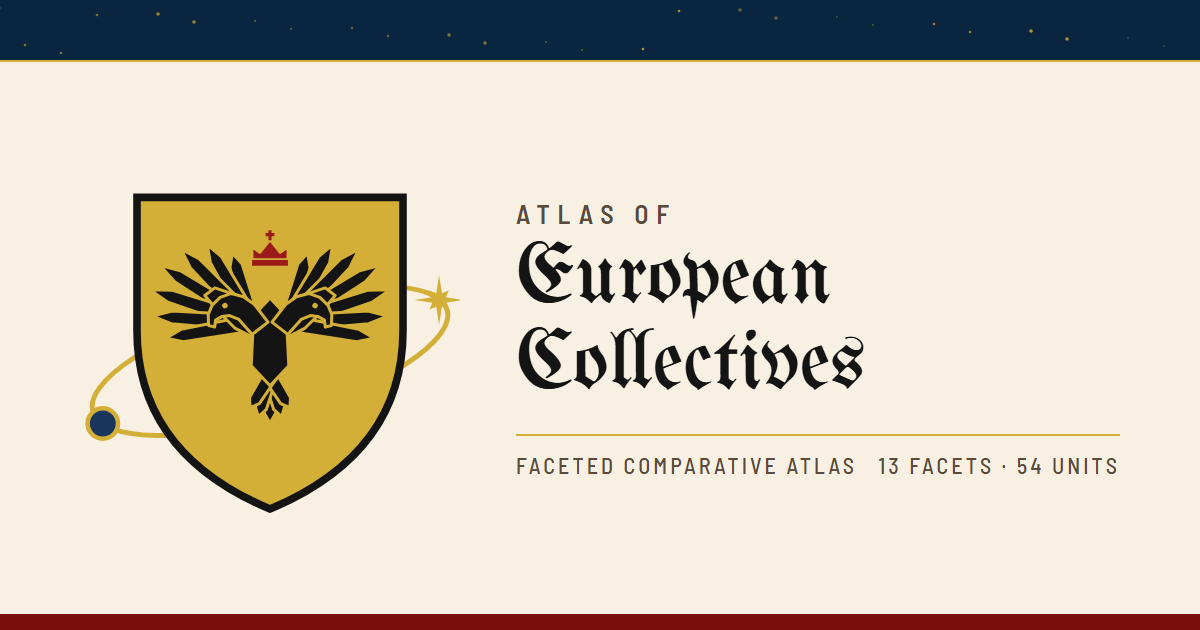
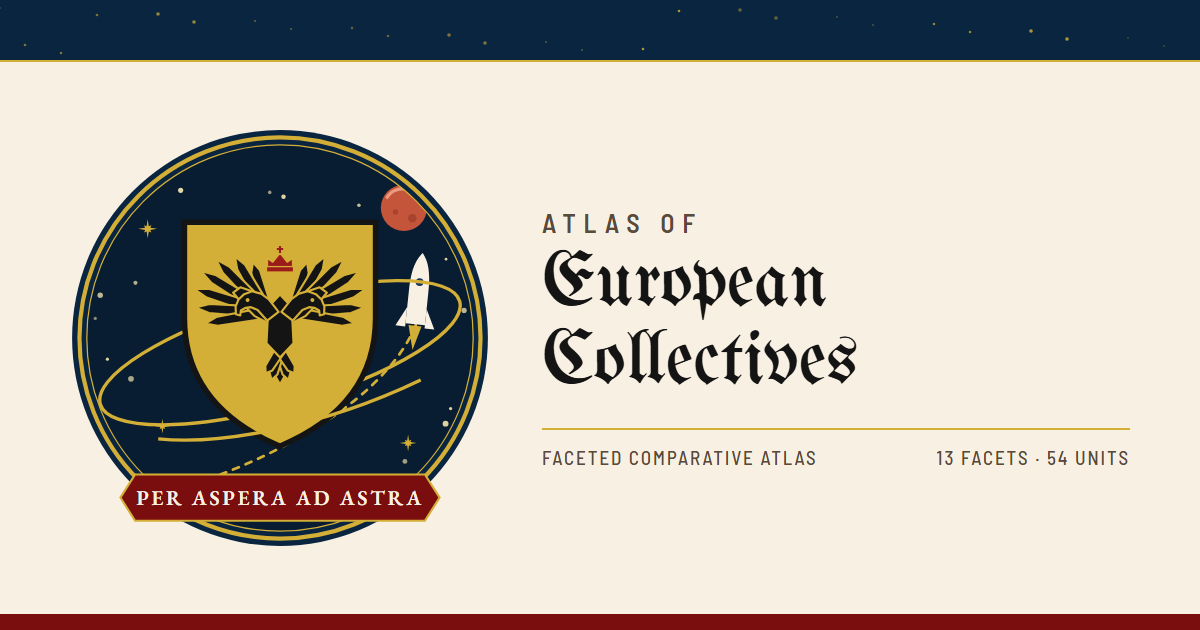
v1.7.8 - Full crest, enlarged for every screen
The shield mark becomes the full crest: the imperial eagle on its gold
shield in a night sky, with an orbit, a rocket rising toward a red planet,
and the motto Per aspera ad astra. 236 px beside the title on desktop; on
phones it stacks above the title at up to 300 px. Footer lockup and the
link-preview image use the same crest.

Changed region(s): [[0.0617, 0.181, 0.74, 0.8746], [0.4317, 0.6635, 0.9558, 0.754], [0.4317, 0.3317, 0.7092, 0.5127]]

diff --git a/index.html b/index.html
@@ -76,8 +76,9 @@ p{margin:0 0 1em}
 h1{font-family:var(--title);font-weight:600;font-size:clamp(31px,7vw,50px);line-height:1.08;margin:0 0 12px;letter-spacing:.003em}
 .brand{display:flex;align-items:center;gap:20px;margin:0 0 18px}
 .brand h1{margin:0 0 2px}.brand .subtitle{margin:0}
-.brand .mk{width:150px;height:150px;flex:none}
-@media(max-width:520px){.brand{gap:14px}.brand .mk{width:64px;height:64px}}
+.brand .mk{width:236px;height:236px;flex:none}
+@media(max-width:820px){.brand .mk{width:190px;height:190px}}
+@media(max-width:620px){.brand{flex-direction:column;align-items:center;text-align:center;gap:16px}.brand .mk{width:min(300px,80vw);height:auto}}
 .dk{display:none}
 @media (prefers-color-scheme:dark){:root:not([data-theme="light"]) .lt{display:none}:root:not([data-theme="light"]) .dk{display:block}}
 :root[data-theme="dark"] .lt{display:none}:root[data-theme="dark"] .dk{display:block}
@@ -223,7 +224,8 @@ a.inl:focus-visible{border-radius:1px}
 :root[data-theme="dark"] body{background-image:var(--sky);background-size:160px 160px;background-attachment:fixed}
 .crest{display:block}
 .colophon .lockup{display:flex;align-items:center;gap:clamp(16px,4vw,34px);max-width:640px}
-.colophon .lockup .crest{width:clamp(104px,24vw,164px);height:auto;flex:none}
+.colophon .lockup .crest{width:clamp(150px,30vw,210px);height:auto;flex:none}
+@media(max-width:560px){.colophon .lockup{flex-direction:column;align-items:center;text-align:center}.colophon .lk3{justify-content:center}}
 .colophon .lk1{font-family:'Barlow Semi Condensed','Arial Narrow',Arial,sans-serif;font-weight:600;font-size:clamp(12px,2.4vw,15px);letter-spacing:.3em;text-transform:uppercase;color:var(--soft)}
 .colophon .lk2{font-family:var(--black);font-weight:400;font-size:clamp(28px,6vw,44px);line-height:1.05;margin:4px 0 0}
 .colophon .lk3{display:flex;flex-wrap:wrap;justify-content:space-between;gap:4px 18px;margin-top:12px;padding-top:9px;border-top:1.5px solid var(--gold);font-family:'Barlow Semi Condensed','Arial Narrow',Arial,sans-serif;font-weight:500;font-size:clamp(11px,2.2vw,14px);letter-spacing:.14em;text-transform:uppercase;color:var(--soft)}
@@ -485,7 +487,7 @@ table.matrix th{white-space:normal;vertical-align:bottom;line-height:1.15}
 <div class="wrap">
 
 <div class="masthead"><span>Faceted comparative atlas</span><span>13 facets, 54 units</span></div>
-<div class="brand"><svg class="crest mk" viewBox="0 0 200 200" role="img" aria-label="Atlas of European Collectives compass mark"><ellipse cx="100" cy="112" rx="97" ry="30" transform="rotate(-16 100 112)" fill="none" stroke="#D4AF37" stroke-width="2.6"></ellipse><path d="M30 26H170V96C170 146 138 174 100 190C62 174 30 146 30 96Z" fill="#D4AF37" stroke="#141414" stroke-width="4"></path><g transform="translate(100 104) scale(0.66) translate(-100 -100)"><polygon points="94.5,124 95.38,153.64 100,162 104.62,153.64 105.5,124" fill="#141414" stroke="#D4AF37" stroke-width="2.4" stroke-linejoin="round"></polygon><polygon points="94.71,125.52 102.87,150.77 109.37,156.68 111.75,148.22 105.29,122.48" fill="#141414" stroke="#D4AF37" stroke-width="2.4" stroke-linejoin="round"></polygon><polygon points="94.71,122.48 88.25,148.22 90.63,156.68 97.13,150.77 105.29,125.52" fill="#141414" stroke="#D4AF37" stroke-width="2.4" stroke-linejoin="round"></polygon><polygon points="95.34,126.91 108.48,146.29 115.9,149.44 116.32,141.4 104.66,121.09" fill="#141414" stroke="#D4AF37" stroke-width="2.4" stroke-linejoin="round"></polygon><polygon points="95.34,121.09 83.68,141.4 84.1,149.44 91.52,146.29 104.66,126.91" fill="#141414" stroke="#D4AF37" stroke-width="2.4" stroke-linejoin="round"></polygon><g><polygon points="89.01,70.73 77.77,35.01 70.01,26.25 68.08,37.79 77.48,74.04" fill="#141414" stroke="#D4AF37" stroke-width="2.4" stroke-linejoin="round"></polygon><polygon points="86.2,70.34 61.18,28.94 50,19.65 52.46,33.98 75.8,76.34" fill="#141414" stroke="#D4AF37" stroke-width="2.4" stroke-linejoin="round"></polygon><polygon points="83.37,70.64 43.67,30.91 29.04,23.01 36.42,37.91 74.74,78.97" fill="#141414" stroke="#D4AF37" stroke-width="2.4" stroke-linejoin="round"></polygon><polygon points="80.7,71.61 29.26,40.6 12.22,35.9 23.91,49.15 74.34,81.79" fill="#141414" stroke="#D4AF37" stroke-width="2.4" stroke-linejoin="round"></polygon><polygon points="78.34,73.2 21.67,55.8 4.21,55.42 18.55,65.38 74.64,84.62" fill="#141414" stroke="#D4AF37" stroke-width="2.4" stroke-linejoin="round"></polygon><polygon points="76.44,75.32 21.91,72.47 6.19,76.42 21.21,82.52 75.61,87.29" fill="#141414" stroke="#D4AF37" stroke-width="2.4" stroke-linejoin="round"></polygon><polygon points="75.11,77.83 29.19,86.9 17.06,94.16 30.94,96.83 77.19,89.65" fill="#141414" stroke="#D4AF37" stroke-width="2.4" stroke-linejoin="round"></polygon><path d="M95 98L88 74L74 60L56 54L48 60L58 72L72 86Z" fill="#141414" stroke="#D4AF37" stroke-width="2.4" stroke-linejoin="round"></path></g><g transform="translate(200 0) scale(-1 1)"><polygon points="89.01,70.73 77.77,35.01 70.01,26.25 68.08,37.79 77.48,74.04" fill="#141414" stroke="#D4AF37" stroke-width="2.4" stroke-linejoin="round"></polygon><polygon points="86.2,70.34 61.18,28.94 50,19.65 52.46,33.98 75.8,76.34" fill="#141414" stroke="#D4AF37" stroke-width="2.4" stroke-linejoin="round"></polygon><polygon points="83.37,70.64 43.67,30.91 29.04,23.01 36.42,37.91 74.74,78.97" fill="#141414" stroke="#D4AF37" stroke-width="2.4" stroke-linejoin="round"></polygon><polygon points="80.7,71.61 29.26,40.6 12.22,35.9 23.91,49.15 74.34,81.79" fill="#141414" stroke="#D4AF37" stroke-width="2.4" stroke-linejoin="round"></polygon><polygon points="78.34,73.2 21.67,55.8 4.21,55.42 18.55,65.38 74.64,84.62" fill="#141414" stroke="#D4AF37" stroke-width="2.4" stroke-linejoin="round"></polygon><polygon points="76.44,75.32 21.91,72.47 6.19,76.42 21.21,82.52 75.61,87.29" fill="#141414" stroke="#D4AF37" stroke-width="2.4" stroke-linejoin="round"></polygon><polygon points="75.11,77.83 29.19,86.9 17.06,94.16 30.94,96.83 77.19,89.65" fill="#141414" stroke="#D4AF37" stroke-width="2.4" stroke-linejoin="round"></polygon><path d="M95 98L88 74L74 60L56 54L48 60L58 72L72 86Z" fill="#141414" stroke="#D4AF37" stroke-width="2.4" stroke-linejoin="round"></path></g><path d="M100 62L113 76L115 116L100 132L85 116L87 76Z" fill="#141414" stroke="#D4AF37" stroke-width="2.4" stroke-linejoin="round"></path><g transform="rotate(-38 100 80) translate(-10 6)"><path d="M108 74L108 56L105 46L99 38L90 35L81 36L74 40L69 47L72 51L76 47L82 48L87 51L91 58L92 74Z" fill="#141414" stroke="#D4AF37" stroke-width="2.4" stroke-linejoin="round"></path><circle cx="89" cy="42.5" r="2.2" fill="#D4AF37"></circle></g><g transform="translate(200 0) scale(-1 1) rotate(-38 100 80) translate(-10 6)"><path d="M108 74L108 56L105 46L99 38L90 35L81 36L74 40L69 47L72 51L76 47L82 48L87 51L91 58L92 74Z" fill="#141414" stroke="#D4AF37" stroke-width="2.4" stroke-linejoin="round"></path><circle cx="89" cy="42.5" r="2.2" fill="#D4AF37"></circle></g><g transform="translate(0 -2)"><path d="M86 34L86 24L92 28L100 18L108 28L114 24L114 34Z" fill="#9B1B1B" stroke="#D4AF37" stroke-width="1.6" stroke-linejoin="round"></path><rect x="85" y="33" width="30" height="6" fill="#9B1B1B" stroke="#D4AF37" stroke-width="1.4"></rect><path d="M100 18V10M96.5 13.5H103.5" stroke="#9B1B1B" stroke-width="2.4"></path></g></g><circle cx="12" cy="145" r="8" fill="#1A365D" stroke="#D4AF37" stroke-width="2.4"></circle><polygon points="189,67 190.49,76.4 194.06,74.94 192.6,78.51 202,80 192.6,81.49 194.06,85.06 190.49,83.6 189,93 187.51,83.6 183.94,85.06 185.4,81.49 176,80 185.4,78.51 183.94,74.94 187.51,76.4" fill="#D4AF37"></polygon></svg><div><h1>Atlas of European Collectives</h1>
+<div class="brand"><svg class="crest mk" viewBox="0 0 400 400" role="img" aria-label="Atlas of European Collectives crest: the imperial eagle on a gold shield in a night sky, circled by an orbit, with a rocket rising toward a red planet and the motto Per aspera ad astra"><defs><clipPath id="crtop-sky"><circle cx="200" cy="200" r="184"/></clipPath></defs><circle cx="200" cy="200" r="198" fill="#0A2540"/><g clip-path="url(#crtop-sky)"><rect width="400" height="400" fill="#060D1A" opacity=".35"/><circle cx="24.03" cy="181.31" r="1.56" fill="#F3E3B0" fill-opacity="0.57"/><circle cx="326.87" cy="167.81" r="1.93" fill="#F3E3B0" fill-opacity="0.76"/><circle cx="275.18" cy="73.5" r="1.68" fill="#F3E3B0" fill-opacity="0.81"/><circle cx="28.76" cy="159.23" r="2.6" fill="#F3E3B0" fill-opacity="0.78"/><circle cx="58.11" cy="238.92" r="2.73" fill="#F3E3B0" fill-opacity="0.69"/><circle cx="341.3" cy="30.59" r="2.29" fill="#F3E3B0" fill-opacity="0.91"/><circle cx="358.14" cy="124.99" r="1.3" fill="#F3E3B0" fill-opacity="0.91"/><circle cx="357.69" cy="281.59" r="2.8" fill="#F3E3B0" fill-opacity="0.91"/><circle cx="32.44" cy="359.07" r="2.5" fill="#F3E3B0" fill-opacity="0.71"/><circle cx="331.73" cy="24.45" r="2.2" fill="#F3E3B0" fill-opacity="0.98"/><circle cx="375.32" cy="173.74" r="2.46" fill="#F3E3B0" fill-opacity="0.78"/><circle cx="103.4" cy="40.86" r="1.09" fill="#F3E3B0" fill-opacity="0.92"/><circle cx="62.33" cy="147.47" r="1.99" fill="#F3E3B0" fill-opacity="0.72"/><circle cx="190.23" cy="61.31" r="1.68" fill="#F3E3B0" fill-opacity="0.63"/><circle cx="58.66" cy="368.8" r="2.79" fill="#F3E3B0" fill-opacity="0.9"/><circle cx="224.41" cy="344.44" r="1.26" fill="#F3E3B0" fill-opacity="0.62"/><circle cx="362.48" cy="267.2" r="1.52" fill="#F3E3B0" fill-opacity="0.92"/><circle cx="151.98" cy="333.39" r="1.87" fill="#F3E3B0" fill-opacity="0.78"/><circle cx="105.39" cy="59.35" r="2.44" fill="#F3E3B0" fill-opacity="0.94"/><circle cx="327.36" cy="177.01" r="1" fill="#F3E3B0" fill-opacity="0.56"/><circle cx="35.61" cy="220.14" r="1.53" fill="#F3E3B0" fill-opacity="0.91"/><circle cx="203.34" cy="65.4" r="2.13" fill="#F3E3B0" fill-opacity="0.92"/><circle cx="204.13" cy="348.53" r="1.71" fill="#F3E3B0" fill-opacity="0.62"/><circle cx="318.97" cy="317.5" r="2.31" fill="#F3E3B0" fill-opacity="0.66"/><polygon points="74,87 75.03,93.51 77.5,92.5 76.49,94.97 83,96 76.49,97.03 77.5,99.5 75.03,98.49 74,105 72.97,98.49 70.5,99.5 71.51,97.03 65,96 71.51,94.97 70.5,92.5 72.97,93.51" fill="#D4AF37"></polygon><polygon points="88,277 88.8,282.06 90.72,281.28 89.94,283.2 95,284 89.94,284.8 90.72,286.72 88.8,285.94 88,291 87.2,285.94 85.28,286.72 86.06,284.8 81,284 86.06,283.2 85.28,281.28 87.2,282.06" fill="#D4AF37"></polygon><polygon points="322,292 322.92,297.78 325.11,296.89 324.22,299.08 330,300 324.22,300.92 325.11,303.11 322.92,302.22 322,308 321.08,302.22 318.89,303.11 319.78,300.92 314,300 319.78,299.08 318.89,296.89 321.08,297.78" fill="#D4AF37"></polygon><circle cx="318" cy="76" r="22" fill="#C4553B"/><path d="M302 66a17 17 0 0 1 20-7" stroke="#EA9A80" stroke-width="3" fill="none" stroke-linecap="round"/><circle cx="326" cy="86" r="4" fill="#A9432D"/><circle cx="310" cy="80" r="2.6" fill="#A9432D"/><path d="M56 356C162 334 298 268 330 186" fill="none" stroke="#D4AF37" stroke-width="2.6" stroke-dasharray="6 7" stroke-linecap="round"/><g transform="translate(332 156) rotate(6) scale(1.55)"><path d="M0 -24C5 -18 6 -10 6 0V20H-6V0C-6 -10 -5 -18 0 -24Z" fill="#F8F1E3"/><path d="M-6 10L-12 22H-6ZM6 10L12 22H6Z" fill="#F8F1E3"/><path d="M-4 21L0 36L4 21Z" fill="#D4AF37"/><circle cx="0" cy="-6" r="2.4" fill="#1A365D"/></g></g><circle cx="200" cy="200" r="191" fill="none" stroke="#D4AF37" stroke-width="4"/><circle cx="200" cy="200" r="184" fill="none" stroke="#D4AF37" stroke-width="1.2"/><ellipse cx="200" cy="214" rx="178" ry="50" transform="rotate(-16 200 214)" fill="none" stroke="#D4AF37" stroke-width="3.2"/><g transform="translate(70 56) scale(1.3)"><path d="M30 26H170V96C170 146 138 174 100 190C62 174 30 146 30 96Z" fill="#D4AF37" stroke="#141414" stroke-width="4"/><g transform="translate(100 104) scale(0.66) translate(-100 -100)"><polygon points="94.5,124 95.38,153.64 100,162 104.62,153.64 105.5,124" fill="#141414" stroke="#D4AF37" stroke-width="2.4" stroke-linejoin="round"></polygon><polygon points="94.71,125.52 102.87,150.77 109.37,156.68 111.75,148.22 105.29,122.48" fill="#141414" stroke="#D4AF37" stroke-width="2.4" stroke-linejoin="round"></polygon><polygon points="94.71,122.48 88.25,148.22 90.63,156.68 97.13,150.77 105.29,125.52" fill="#141414" stroke="#D4AF37" stroke-width="2.4" stroke-linejoin="round"></polygon><polygon points="95.34,126.91 108.48,146.29 115.9,149.44 116.32,141.4 104.66,121.09" fill="#141414" stroke="#D4AF37" stroke-width="2.4" stroke-linejoin="round"></polygon><polygon points="95.34,121.09 83.68,141.4 84.1,149.44 91.52,146.29 104.66,126.91" fill="#141414" stroke="#D4AF37" stroke-width="2.4" stroke-linejoin="round"></polygon><g><polygon points="89.01,70.73 77.77,35.01 70.01,26.25 68.08,37.79 77.48,74.04" fill="#141414" stroke="#D4AF37" stroke-width="2.4" stroke-linejoin="round"></polygon><polygon points="86.2,70.34 61.18,28.94 50,19.65 52.46,33.98 75.8,76.34" fill="#141414" stroke="#D4AF37" stroke-width="2.4" stroke-linejoin="round"></polygon><polygon points="83.37,70.64 43.67,30.91 29.04,23.01 36.42,37.91 74.74,78.97" fill="#141414" stroke="#D4AF37" stroke-width="2.4" stroke-linejoin="round"></polygon><polygon points="80.7,71.61 29.26,40.6 12.22,35.9 23.91,49.15 74.34,81.79" fill="#141414" stroke="#D4AF37" stroke-width="2.4" stroke-linejoin="round"></polygon><polygon points="78.34,73.2 21.67,55.8 4.21,55.42 18.55,65.38 74.64,84.62" fill="#141414" stroke="#D4AF37" stroke-width="2.4" stroke-linejoin="round"></polygon><polygon points="76.44,75.32 21.91,72.47 6.19,76.42 21.21,82.52 75.61,87.29" fill="#141414" stroke="#D4AF37" stroke-width="2.4" stroke-linejoin="round"></polygon><polygon points="75.11,77.83 29.19,86.9 17.06,94.16 30.94,96.83 77.19,89.65" fill="#141414" stroke="#D4AF37" stroke-width="2.4" stroke-linejoin="round"></polygon><path d="M95 98L88 74L74 60L56 54L48 60L58 72L72 86Z" fill="#141414" stroke="#D4AF37" stroke-width="2.4" stroke-linejoin="round"></path></g><g transform="translate(200 0) scale(-1 1)"><polygon points="89.01,70.73 77.77,35.01 70.01,26.25 68.08,37.79 77.48,74.04" fill="#141414" stroke="#D4AF37" stroke-width="2.4" stroke-linejoin="round"></polygon><polygon points="86.2,70.34 61.18,28.94 50,19.65 52.46,33.98 75.8,76.34" fill="#141414" stroke="#D4AF37" stroke-width="2.4" stroke-linejoin="round"></polygon><polygon points="83.37,70.64 43.67,30.91 29.04,23.01 36.42,37.91 74.74,78.97" fill="#141414" stroke="#D4AF37" stroke-width="2.4" stroke-linejoin="round"></polygon><polygon points="80.7,71.61 29.26,40.6 12.22,35.9 23.91,49.15 74.34,81.79" fill="#141414" stroke="#D4AF37" stroke-width="2.4" stroke-linejoin="round"></polygon><polygon points="78.34,73.2 21.67,55.8 4.21,55.42 18.55,65.38 74.64,84.62" fill="#141414" stroke="#D4AF37" stroke-width="2.4" stroke-linejoin="round"></polygon><polygon points="76.44,75.32 21.91,72.47 6.19,76.42 21.21,82.52 75.61,87.29" fill="#141414" stroke="#D4AF37" stroke-width="2.4" stroke-linejoin="round"></polygon><polygon points="75.11,77.83 29.19,86.9 17.06,94.16 30.94,96.83 77.19,89.65" fill="#141414" stroke="#D4AF37" stroke-width="2.4" stroke-linejoin="round"></polygon><path d="M95 98L88 74L74 60L56 54L48 60L58 72L72 86Z" fill="#141414" stroke="#D4AF37" stroke-width="2.4" stroke-linejoin="round"></path></g><path d="M100 62L113 76L115 116L100 132L85 116L87 76Z" fill="#141414" stroke="#D4AF37" stroke-width="2.4" stroke-linejoin="round"></path><g transform="rotate(-38 100 80) translate(-10 6)"><path d="M108 74L108 56L105 46L99 38L90 35L81 36L74 40L69 47L72 51L76 47L82 48L87 51L91 58L92 74Z" fill="#141414" stroke="#D4AF37" stroke-width="2.4" stroke-linejoin="round"></path><circle cx="89" cy="42.5" r="2.2" fill="#D4AF37"></circle></g><g transform="translate(200 0) scale(-1 1) rotate(-38 100 80) translate(-10 6)"><path d="M108 74L108 56L105 46L99 38L90 35L81 36L74 40L69 47L72 51L76 47L82 48L87 51L91 58L92 74Z" fill="#141414" stroke="#D4AF37" stroke-width="2.4" stroke-linejoin="round"></path><circle cx="89" cy="42.5" r="2.2" fill="#D4AF37"></circle></g><g transform="translate(0 -2)"><path d="M86 34L86 24L92 28L100 18L108 28L114 24L114 34Z" fill="#9B1B1B" stroke="#D4AF37" stroke-width="1.6" stroke-linejoin="round"></path><rect x="85" y="33" width="30" height="6" fill="#9B1B1B" stroke="#D4AF37" stroke-width="1.4"></rect><path d="M100 18V10M96.5 13.5H103.5" stroke="#9B1B1B" stroke-width="2.4"></path></g></g></g><path d="M84 296C140 302 238 286 334 240" fill="none" stroke="#D4AF37" stroke-width="3.2"/><path d="M62 330H338L352 352L338 374H62L48 352Z" fill="#7A0E0E" stroke="#D4AF37" stroke-width="2"/><text x="200" y="359" text-anchor="middle" font-family="EB Garamond, Garamond, Georgia, serif" font-weight="600" font-size="20" letter-spacing="2.6" fill="#F8F1E3">PER ASPERA AD ASTRA</text></svg><div><h1>Atlas of European Collectives</h1>
 <p class="subtitle">Three commonwealths, thirteen facets</p></div></div>
 <div class="arcade" aria-hidden="true"></div>
 <h2 id="abstract">Abstract</h2>
@@ -1182,10 +1184,10 @@ table.matrix th{white-space:normal;vertical-align:bottom;line-height:1.15}
 
 <footer>
 <p><strong>Sources.</strong> Listed under each category; for the method and frame, under <a href="#method-refs">Methodology</a>.</p>
-<p><strong>Version.</strong> 1.7.7, 2026-10-20. Source and change history on <a href="https://github.com/Bryce-Waddell/European-Atlas/blob/main/CHANGELOG.md">GitHub</a>.</p>
+<p><strong>Version.</strong> 1.7.8, 2026-10-20. Source and change history on <a href="https://github.com/Bryce-Waddell/European-Atlas/blob/main/CHANGELOG.md">GitHub</a>.</p>
 <p><strong>Counter-reading.</strong> Geary, <em>The Myth of Nations</em>; Hobsbawm &amp; Ranger, <em>The Invention of Tradition</em>; Antonio et al. 2019 on the ancient genomes of Rome.</p>
 
-<div class="colophon"><div class="lockup" role="img" aria-label="Atlas of European Collectives: faceted comparative atlas, 13 facets, 54 units"><svg class="crest" viewBox="0 0 200 200" aria-hidden="true" focusable="false"><ellipse cx="100" cy="112" rx="97" ry="30" transform="rotate(-16 100 112)" fill="none" stroke="#D4AF37" stroke-width="2.6"></ellipse><path d="M30 26H170V96C170 146 138 174 100 190C62 174 30 146 30 96Z" fill="#D4AF37" stroke="#141414" stroke-width="4"></path><g transform="translate(100 104) scale(0.66) translate(-100 -100)"><polygon points="94.5,124 95.38,153.64 100,162 104.62,153.64 105.5,124" fill="#141414" stroke="#D4AF37" stroke-width="2.4" stroke-linejoin="round"></polygon><polygon points="94.71,125.52 102.87,150.77 109.37,156.68 111.75,148.22 105.29,122.48" fill="#141414" stroke="#D4AF37" stroke-width="2.4" stroke-linejoin="round"></polygon><polygon points="94.71,122.48 88.25,148.22 90.63,156.68 97.13,150.77 105.29,125.52" fill="#141414" stroke="#D4AF37" stroke-width="2.4" stroke-linejoin="round"></polygon><polygon points="95.34,126.91 108.48,146.29 115.9,149.44 116.32,141.4 104.66,121.09" fill="#141414" stroke="#D4AF37" stroke-width="2.4" stroke-linejoin="round"></polygon><polygon points="95.34,121.09 83.68,141.4 84.1,149.44 91.52,146.29 104.66,126.91" fill="#141414" stroke="#D4AF37" stroke-width="2.4" stroke-linejoin="round"></polygon><g><polygon points="89.01,70.73 77.77,35.01 70.01,26.25 68.08,37.79 77.48,74.04" fill="#141414" stroke="#D4AF37" stroke-width="2.4" stroke-linejoin="round"></polygon><polygon points="86.2,70.34 61.18,28.94 50,19.65 52.46,33.98 75.8,76.34" fill="#141414" stroke="#D4AF37" stroke-width="2.4" stroke-linejoin="round"></polygon><polygon points="83.37,70.64 43.67,30.91 29.04,23.01 36.42,37.91 74.74,78.97" fill="#141414" stroke="#D4AF37" stroke-width="2.4" stroke-linejoin="round"></polygon><polygon points="80.7,71.61 29.26,40.6 12.22,35.9 23.91,49.15 74.34,81.79" fill="#141414" stroke="#D4AF37" stroke-width="2.4" stroke-linejoin="round"></polygon><polygon points="78.34,73.2 21.67,55.8 4.21,55.42 18.55,65.38 74.64,84.62" fill="#141414" stroke="#D4AF37" stroke-width="2.4" stroke-linejoin="round"></polygon><polygon points="76.44,75.32 21.91,72.47 6.19,76.42 21.21,82.52 75.61,87.29" fill="#141414" stroke="#D4AF37" stroke-width="2.4" stroke-linejoin="round"></polygon><polygon points="75.11,77.83 29.19,86.9 17.06,94.16 30.94,96.83 77.19,89.65" fill="#141414" stroke="#D4AF37" stroke-width="2.4" stroke-linejoin="round"></polygon><path d="M95 98L88 74L74 60L56 54L48 60L58 72L72 86Z" fill="#141414" stroke="#D4AF37" stroke-width="2.4" stroke-linejoin="round"></path></g><g transform="translate(200 0) scale(-1 1)"><polygon points="89.01,70.73 77.77,35.01 70.01,26.25 68.08,37.79 77.48,74.04" fill="#141414" stroke="#D4AF37" stroke-width="2.4" stroke-linejoin="round"></polygon><polygon points="86.2,70.34 61.18,28.94 50,19.65 52.46,33.98 75.8,76.34" fill="#141414" stroke="#D4AF37" stroke-width="2.4" stroke-linejoin="round"></polygon><polygon points="83.37,70.64 43.67,30.91 29.04,23.01 36.42,37.91 74.74,78.97" fill="#141414" stroke="#D4AF37" stroke-width="2.4" stroke-linejoin="round"></polygon><polygon points="80.7,71.61 29.26,40.6 12.22,35.9 23.91,49.15 74.34,81.79" fill="#141414" stroke="#D4AF37" stroke-width="2.4" stroke-linejoin="round"></polygon><polygon points="78.34,73.2 21.67,55.8 4.21,55.42 18.55,65.38 74.64,84.62" fill="#141414" stroke="#D4AF37" stroke-width="2.4" stroke-linejoin="round"></polygon><polygon points="76.44,75.32 21.91,72.47 6.19,76.42 21.21,82.52 75.61,87.29" fill="#141414" stroke="#D4AF37" stroke-width="2.4" stroke-linejoin="round"></polygon><polygon points="75.11,77.83 29.19,86.9 17.06,94.16 30.94,96.83 77.19,89.65" fill="#141414" stroke="#D4AF37" stroke-width="2.4" stroke-linejoin="round"></polygon><path d="M95 98L88 74L74 60L56 54L48 60L58 72L72 86Z" fill="#141414" stroke="#D4AF37" stroke-width="2.4" stroke-linejoin="round"></path></g><path d="M100 62L113 76L115 116L100 132L85 116L87 76Z" fill="#141414" stroke="#D4AF37" stroke-width="2.4" stroke-linejoin="round"></path><g transform="rotate(-38 100 80) translate(-10 6)"><path d="M108 74L108 56L105 46L99 38L90 35L81 36L74 40L69 47L72 51L76 47L82 48L87 51L91 58L92 74Z" fill="#141414" stroke="#D4AF37" stroke-width="2.4" stroke-linejoin="round"></path><circle cx="89" cy="42.5" r="2.2" fill="#D4AF37"></circle></g><g transform="translate(200 0) scale(-1 1) rotate(-38 100 80) translate(-10 6)"><path d="M108 74L108 56L105 46L99 38L90 35L81 36L74 40L69 47L72 51L76 47L82 48L87 51L91 58L92 74Z" fill="#141414" stroke="#D4AF37" stroke-width="2.4" stroke-linejoin="round"></path><circle cx="89" cy="42.5" r="2.2" fill="#D4AF37"></circle></g><g transform="translate(0 -2)"><path d="M86 34L86 24L92 28L100 18L108 28L114 24L114 34Z" fill="#9B1B1B" stroke="#D4AF37" stroke-width="1.6" stroke-linejoin="round"></path><rect x="85" y="33" width="30" height="6" fill="#9B1B1B" stroke="#D4AF37" stroke-width="1.4"></rect><path d="M100 18V10M96.5 13.5H103.5" stroke="#9B1B1B" stroke-width="2.4"></path></g></g><circle cx="12" cy="145" r="8" fill="#1A365D" stroke="#D4AF37" stroke-width="2.4"></circle><polygon points="189,67 190.49,76.4 194.06,74.94 192.6,78.51 202,80 192.6,81.49 194.06,85.06 190.49,83.6 189,93 187.51,83.6 183.94,85.06 185.4,81.49 176,80 185.4,78.51 183.94,74.94 187.51,76.4" fill="#D4AF37"></polygon></svg><div aria-hidden="true"><div class="lk1">Atlas of</div><div class="lk2">European Collectives</div><div class="lk3"><span>Faceted comparative atlas</span><span>13 facets · 54 units</span></div></div></div></div>
+<div class="colophon"><div class="lockup" role="img" aria-label="Atlas of European Collectives: faceted comparative atlas, 13 facets, 54 units"><svg class="crest" viewBox="0 0 400 400" aria-hidden="true" focusable="false"><defs><clipPath id="crfoot-sky"><circle cx="200" cy="200" r="184"/></clipPath></defs><circle cx="200" cy="200" r="198" fill="#0A2540"/><g clip-path="url(#crfoot-sky)"><rect width="400" height="400" fill="#060D1A" opacity=".35"/><circle cx="24.03" cy="181.31" r="1.56" fill="#F3E3B0" fill-opacity="0.57"/><circle cx="326.87" cy="167.81" r="1.93" fill="#F3E3B0" fill-opacity="0.76"/><circle cx="275.18" cy="73.5" r="1.68" fill="#F3E3B0" fill-opacity="0.81"/><circle cx="28.76" cy="159.23" r="2.6" fill="#F3E3B0" fill-opacity="0.78"/><circle cx="58.11" cy="238.92" r="2.73" fill="#F3E3B0" fill-opacity="0.69"/><circle cx="341.3" cy="30.59" r="2.29" fill="#F3E3B0" fill-opacity="0.91"/><circle cx="358.14" cy="124.99" r="1.3" fill="#F3E3B0" fill-opacity="0.91"/><circle cx="357.69" cy="281.59" r="2.8" fill="#F3E3B0" fill-opacity="0.91"/><circle cx="32.44" cy="359.07" r="2.5" fill="#F3E3B0" fill-opacity="0.71"/><circle cx="331.73" cy="24.45" r="2.2" fill="#F3E3B0" fill-opacity="0.98"/><circle cx="375.32" cy="173.74" r="2.46" fill="#F3E3B0" fill-opacity="0.78"/><circle cx="103.4" cy="40.86" r="1.09" fill="#F3E3B0" fill-opacity="0.92"/><circle cx="62.33" cy="147.47" r="1.99" fill="#F3E3B0" fill-opacity="0.72"/><circle cx="190.23" cy="61.31" r="1.68" fill="#F3E3B0" fill-opacity="0.63"/><circle cx="58.66" cy="368.8" r="2.79" fill="#F3E3B0" fill-opacity="0.9"/><circle cx="224.41" cy="344.44" r="1.26" fill="#F3E3B0" fill-opacity="0.62"/><circle cx="362.48" cy="267.2" r="1.52" fill="#F3E3B0" fill-opacity="0.92"/><circle cx="151.98" cy="333.39" r="1.87" fill="#F3E3B0" fill-opacity="0.78"/><circle cx="105.39" cy="59.35" r="2.44" fill="#F3E3B0" fill-opacity="0.94"/><circle cx="327.36" cy="177.01" r="1" fill="#F3E3B0" fill-opacity="0.56"/><circle cx="35.61" cy="220.14" r="1.53" fill="#F3E3B0" fill-opacity="0.91"/><circle cx="203.34" cy="65.4" r="2.13" fill="#F3E3B0" fill-opacity="0.92"/><circle cx="204.13" cy="348.53" r="1.71" fill="#F3E3B0" fill-opacity="0.62"/><circle cx="318.97" cy="317.5" r="2.31" fill="#F3E3B0" fill-opacity="0.66"/><polygon points="74,87 75.03,93.51 77.5,92.5 76.49,94.97 83,96 76.49,97.03 77.5,99.5 75.03,98.49 74,105 72.97,98.49 70.5,99.5 71.51,97.03 65,96 71.51,94.97 70.5,92.5 72.97,93.51" fill="#D4AF37"></polygon><polygon points="88,277 88.8,282.06 90.72,281.28 89.94,283.2 95,284 89.94,284.8 90.72,286.72 88.8,285.94 88,291 87.2,285.94 85.28,286.72 86.06,284.8 81,284 86.06,283.2 85.28,281.28 87.2,282.06" fill="#D4AF37"></polygon><polygon points="322,292 322.92,297.78 325.11,296.89 324.22,299.08 330,300 324.22,300.92 325.11,303.11 322.92,302.22 322,308 321.08,302.22 318.89,303.11 319.78,300.92 314,300 319.78,299.08 318.89,296.89 321.08,297.78" fill="#D4AF37"></polygon><circle cx="318" cy="76" r="22" fill="#C4553B"/><path d="M302 66a17 17 0 0 1 20-7" stroke="#EA9A80" stroke-width="3" fill="none" stroke-linecap="round"/><circle cx="326" cy="86" r="4" fill="#A9432D"/><circle cx="310" cy="80" r="2.6" fill="#A9432D"/><path d="M56 356C162 334 298 268 330 186" fill="none" stroke="#D4AF37" stroke-width="2.6" stroke-dasharray="6 7" stroke-linecap="round"/><g transform="translate(332 156) rotate(6) scale(1.55)"><path d="M0 -24C5 -18 6 -10 6 0V20H-6V0C-6 -10 -5 -18 0 -24Z" fill="#F8F1E3"/><path d="M-6 10L-12 22H-6ZM6 10L12 22H6Z" fill="#F8F1E3"/><path d="M-4 21L0 36L4 21Z" fill="#D4AF37"/><circle cx="0" cy="-6" r="2.4" fill="#1A365D"/></g></g><circle cx="200" cy="200" r="191" fill="none" stroke="#D4AF37" stroke-width="4"/><circle cx="200" cy="200" r="184" fill="none" stroke="#D4AF37" stroke-width="1.2"/><ellipse cx="200" cy="214" rx="178" ry="50" transform="rotate(-16 200 214)" fill="none" stroke="#D4AF37" stroke-width="3.2"/><g transform="translate(70 56) scale(1.3)"><path d="M30 26H170V96C170 146 138 174 100 190C62 174 30 146 30 96Z" fill="#D4AF37" stroke="#141414" stroke-width="4"/><g transform="translate(100 104) scale(0.66) translate(-100 -100)"><polygon points="94.5,124 95.38,153.64 100,162 104.62,153.64 105.5,124" fill="#141414" stroke="#D4AF37" stroke-width="2.4" stroke-linejoin="round"></polygon><polygon points="94.71,125.52 102.87,150.77 109.37,156.68 111.75,148.22 105.29,122.48" fill="#141414" stroke="#D4AF37" stroke-width="2.4" stroke-linejoin="round"></polygon><polygon points="94.71,122.48 88.25,148.22 90.63,156.68 97.13,150.77 105.29,125.52" fill="#141414" stroke="#D4AF37" stroke-width="2.4" stroke-linejoin="round"></polygon><polygon points="95.34,126.91 108.48,146.29 115.9,149.44 116.32,141.4 104.66,121.09" fill="#141414" stroke="#D4AF37" stroke-width="2.4" stroke-linejoin="round"></polygon><polygon points="95.34,121.09 83.68,141.4 84.1,149.44 91.52,146.29 104.66,126.91" fill="#141414" stroke="#D4AF37" stroke-width="2.4" stroke-linejoin="round"></polygon><g><polygon points="89.01,70.73 77.77,35.01 70.01,26.25 68.08,37.79 77.48,74.04" fill="#141414" stroke="#D4AF37" stroke-width="2.4" stroke-linejoin="round"></polygon><polygon points="86.2,70.34 61.18,28.94 50,19.65 52.46,33.98 75.8,76.34" fill="#141414" stroke="#D4AF37" stroke-width="2.4" stroke-linejoin="round"></polygon><polygon points="83.37,70.64 43.67,30.91 29.04,23.01 36.42,37.91 74.74,78.97" fill="#141414" stroke="#D4AF37" stroke-width="2.4" stroke-linejoin="round"></polygon><polygon points="80.7,71.61 29.26,40.6 12.22,35.9 23.91,49.15 74.34,81.79" fill="#141414" stroke="#D4AF37" stroke-width="2.4" stroke-linejoin="round"></polygon><polygon points="78.34,73.2 21.67,55.8 4.21,55.42 18.55,65.38 74.64,84.62" fill="#141414" stroke="#D4AF37" stroke-width="2.4" stroke-linejoin="round"></polygon><polygon points="76.44,75.32 21.91,72.47 6.19,76.42 21.21,82.52 75.61,87.29" fill="#141414" stroke="#D4AF37" stroke-width="2.4" stroke-linejoin="round"></polygon><polygon points="75.11,77.83 29.19,86.9 17.06,94.16 30.94,96.83 77.19,89.65" fill="#141414" stroke="#D4AF37" stroke-width="2.4" stroke-linejoin="round"></polygon><path d="M95 98L88 74L74 60L56 54L48 60L58 72L72 86Z" fill="#141414" stroke="#D4AF37" stroke-width="2.4" stroke-linejoin="round"></path></g><g transform="translate(200 0) scale(-1 1)"><polygon points="89.01,70.73 77.77,35.01 70.01,26.25 68.08,37.79 77.48,74.04" fill="#141414" stroke="#D4AF37" stroke-width="2.4" stroke-linejoin="round"></polygon><polygon points="86.2,70.34 61.18,28.94 50,19.65 52.46,33.98 75.8,76.34" fill="#141414" stroke="#D4AF37" stroke-width="2.4" stroke-linejoin="round"></polygon><polygon points="83.37,70.64 43.67,30.91 29.04,23.01 36.42,37.91 74.74,78.97" fill="#141414" stroke="#D4AF37" stroke-width="2.4" stroke-linejoin="round"></polygon><polygon points="80.7,71.61 29.26,40.6 12.22,35.9 23.91,49.15 74.34,81.79" fill="#141414" stroke="#D4AF37" stroke-width="2.4" stroke-linejoin="round"></polygon><polygon points="78.34,73.2 21.67,55.8 4.21,55.42 18.55,65.38 74.64,84.62" fill="#141414" stroke="#D4AF37" stroke-width="2.4" stroke-linejoin="round"></polygon><polygon points="76.44,75.32 21.91,72.47 6.19,76.42 21.21,82.52 75.61,87.29" fill="#141414" stroke="#D4AF37" stroke-width="2.4" stroke-linejoin="round"></polygon><polygon points="75.11,77.83 29.19,86.9 17.06,94.16 30.94,96.83 77.19,89.65" fill="#141414" stroke="#D4AF37" stroke-width="2.4" stroke-linejoin="round"></polygon><path d="M95 98L88 74L74 60L56 54L48 60L58 72L72 86Z" fill="#141414" stroke="#D4AF37" stroke-width="2.4" stroke-linejoin="round"></path></g><path d="M100 62L113 76L115 116L100 132L85 116L87 76Z" fill="#141414" stroke="#D4AF37" stroke-width="2.4" stroke-linejoin="round"></path><g transform="rotate(-38 100 80) translate(-10 6)"><path d="M108 74L108 56L105 46L99 38L90 35L81 36L74 40L69 47L72 51L76 47L82 48L87 51L91 58L92 74Z" fill="#141414" stroke="#D4AF37" stroke-width="2.4" stroke-linejoin="round"></path><circle cx="89" cy="42.5" r="2.2" fill="#D4AF37"></circle></g><g transform="translate(200 0) scale(-1 1) rotate(-38 100 80) translate(-10 6)"><path d="M108 74L108 56L105 46L99 38L90 35L81 36L74 40L69 47L72 51L76 47L82 48L87 51L91 58L92 74Z" fill="#141414" stroke="#D4AF37" stroke-width="2.4" stroke-linejoin="round"></path><circle cx="89" cy="42.5" r="2.2" fill="#D4AF37"></circle></g><g transform="translate(0 -2)"><path d="M86 34L86 24L92 28L100 18L108 28L114 24L114 34Z" fill="#9B1B1B" stroke="#D4AF37" stroke-width="1.6" stroke-linejoin="round"></path><rect x="85" y="33" width="30" height="6" fill="#9B1B1B" stroke="#D4AF37" stroke-width="1.4"></rect><path d="M100 18V10M96.5 13.5H103.5" stroke="#9B1B1B" stroke-width="2.4"></path></g></g></g><path d="M84 296C140 302 238 286 334 240" fill="none" stroke="#D4AF37" stroke-width="3.2"/><path d="M62 330H338L352 352L338 374H62L48 352Z" fill="#7A0E0E" stroke="#D4AF37" stroke-width="2"/><text x="200" y="359" text-anchor="middle" font-family="EB Garamond, Garamond, Georgia, serif" font-weight="600" font-size="20" letter-spacing="2.6" fill="#F8F1E3">PER ASPERA AD ASTRA</text></svg><div aria-hidden="true"><div class="lk1">Atlas of</div><div class="lk2">European Collectives</div><div class="lk3"><span>Faceted comparative atlas</span><span>13 facets · 54 units</span></div></div></div></div>
 </footer>
 </div>
 

diff --git a/CHANGELOG.md b/CHANGELOG.md
@@ -4,6 +4,10 @@ All notable changes to the Atlas of European Collectives.
 Format: [Keep a Changelog](https://keepachangelog.com/). Versioning: [SemVer](https://semver.org/).
 MAJOR = the findings change; MINOR = a facet, region or section is added; PATCH = corrections, wording, styling.
 
+## [1.7.8] - 2026-10-20
+### Changed
+- The full crest replaces the shield mark: the imperial eagle on its gold shield in a night sky, with an orbit, a rocket rising toward a red planet, and the motto Per aspera ad astra. Larger on every screen; on phones it stacks above the title at up to 300 px. Link-preview image redrawn around it.
+
 ## [1.7.7] - 2026-10-20
 ### Changed
 - The page title is set in Grenze Gotisch, a blackletter–roman hybrid that reads at a glance; blackletter (UnifrakturMaguntia) stays only in the footer lockup and the link-preview image. Font self-hosted.
